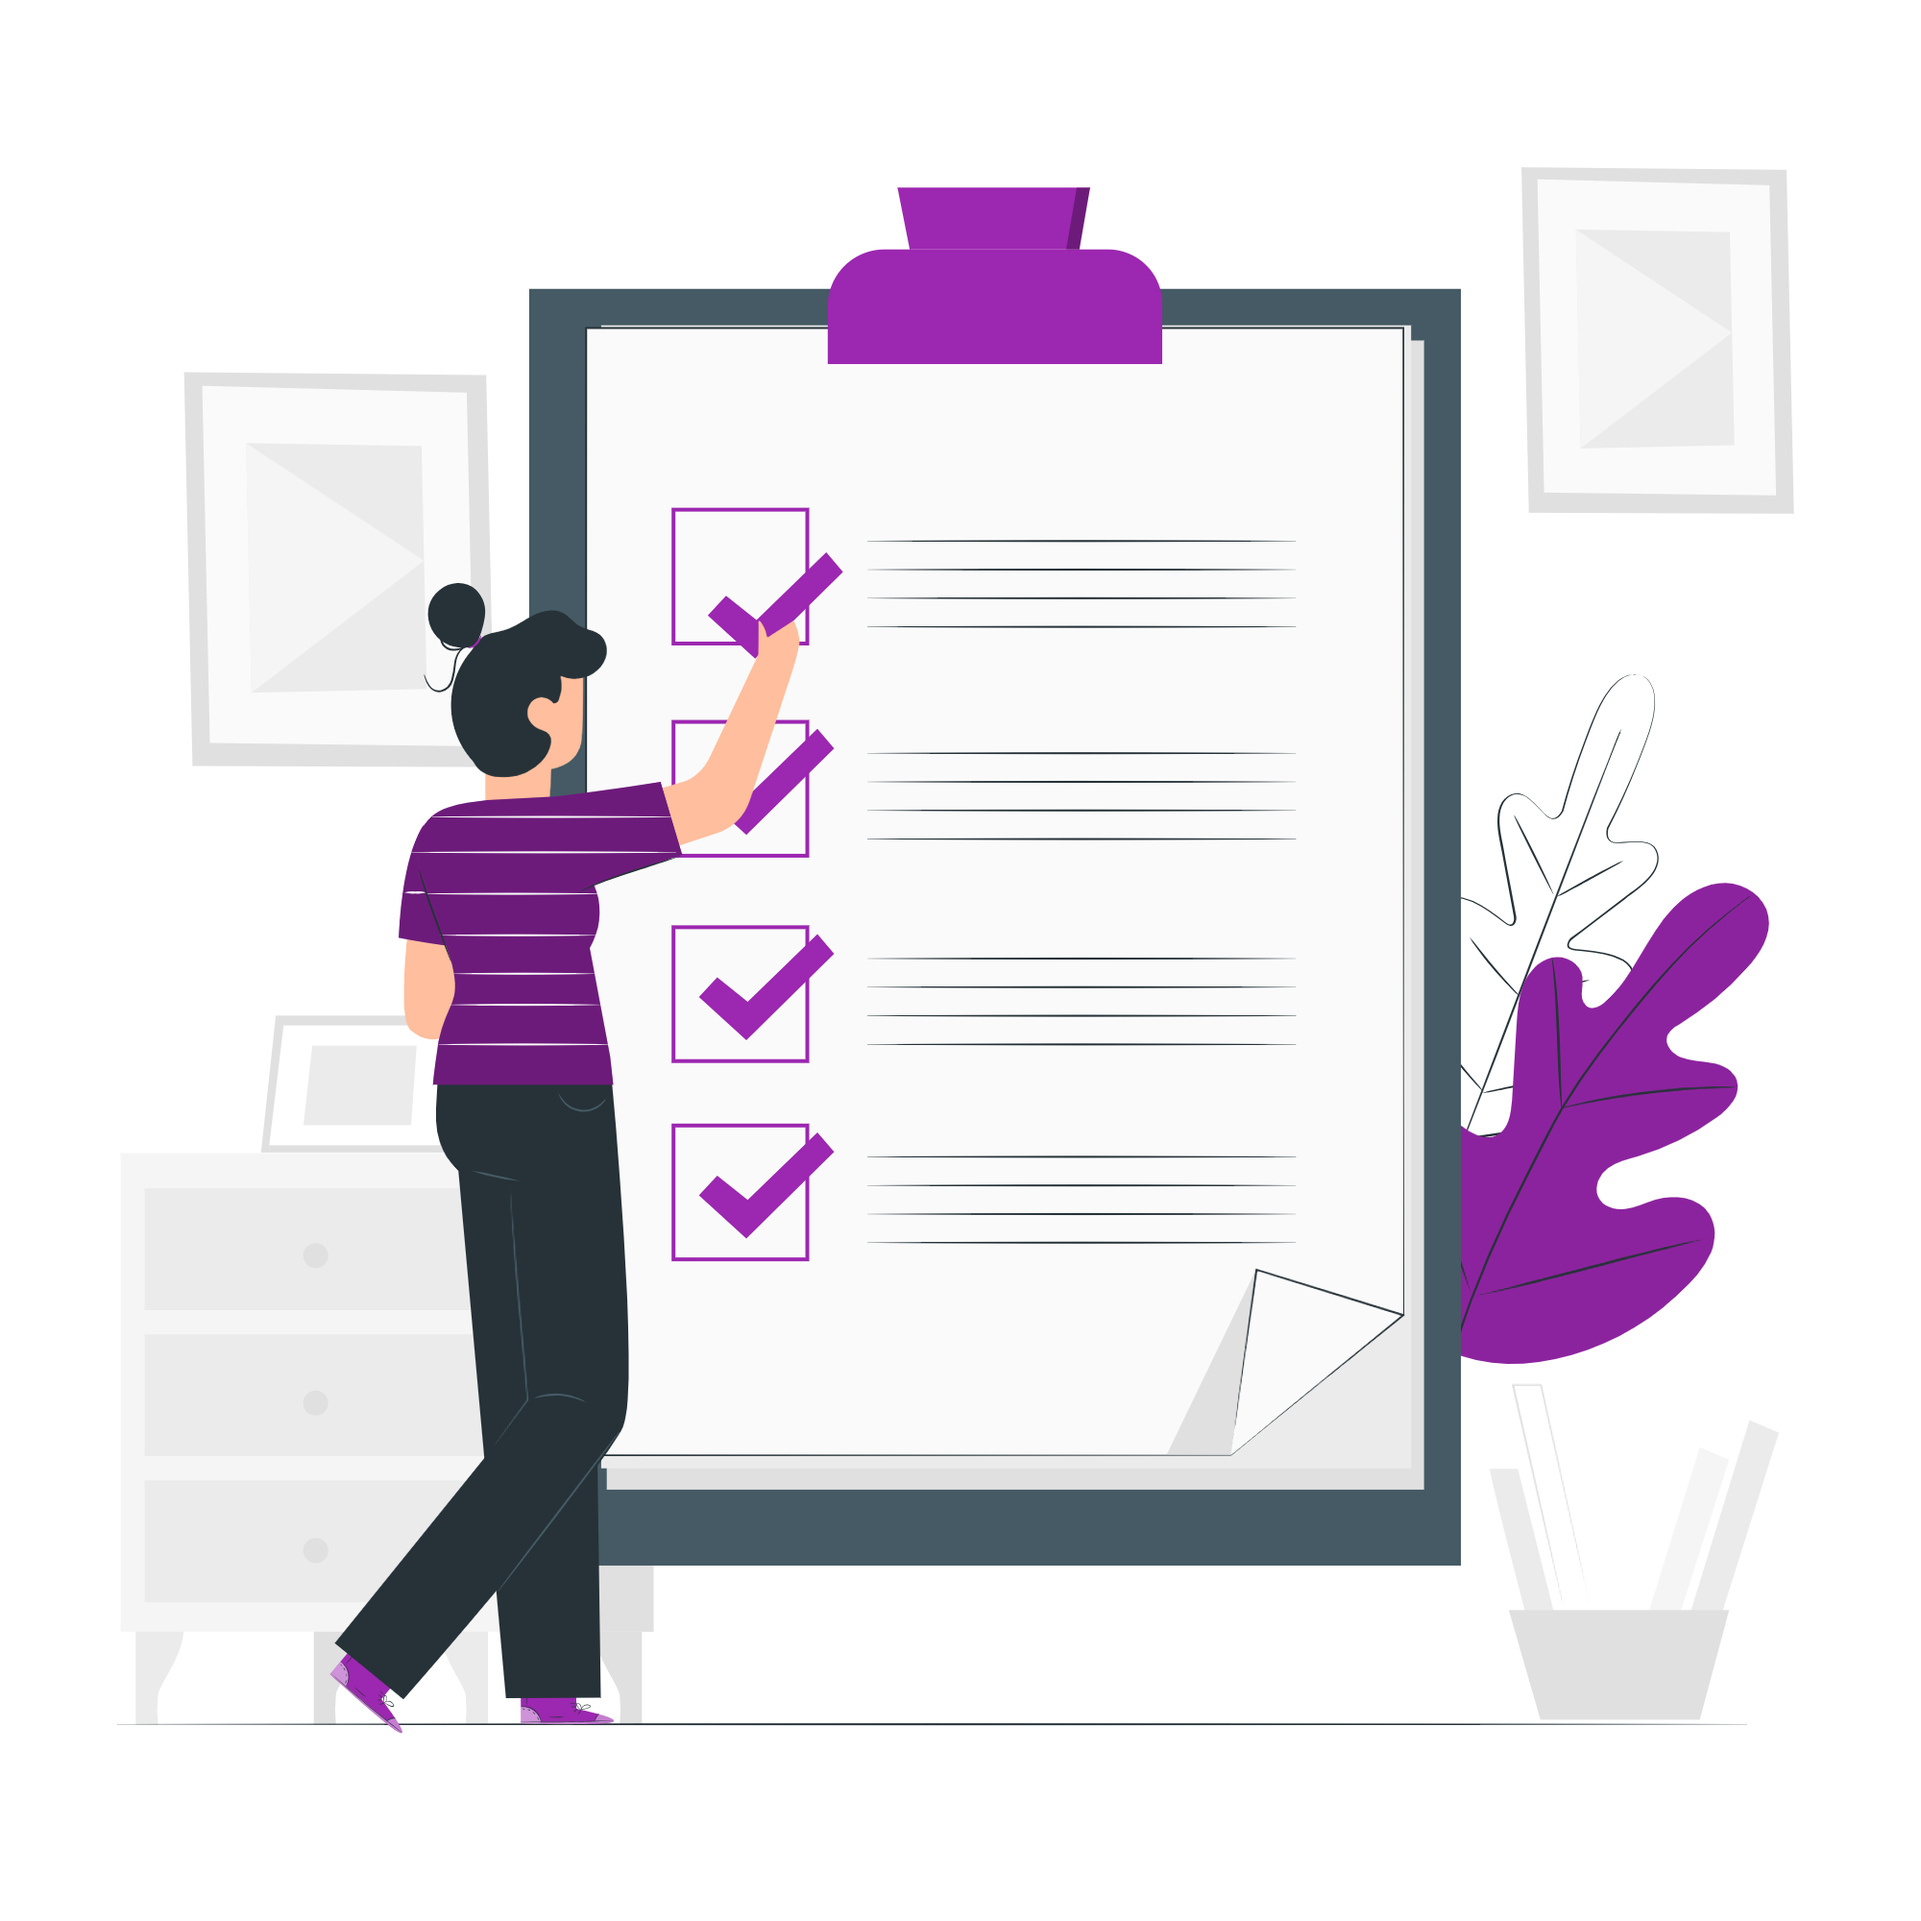
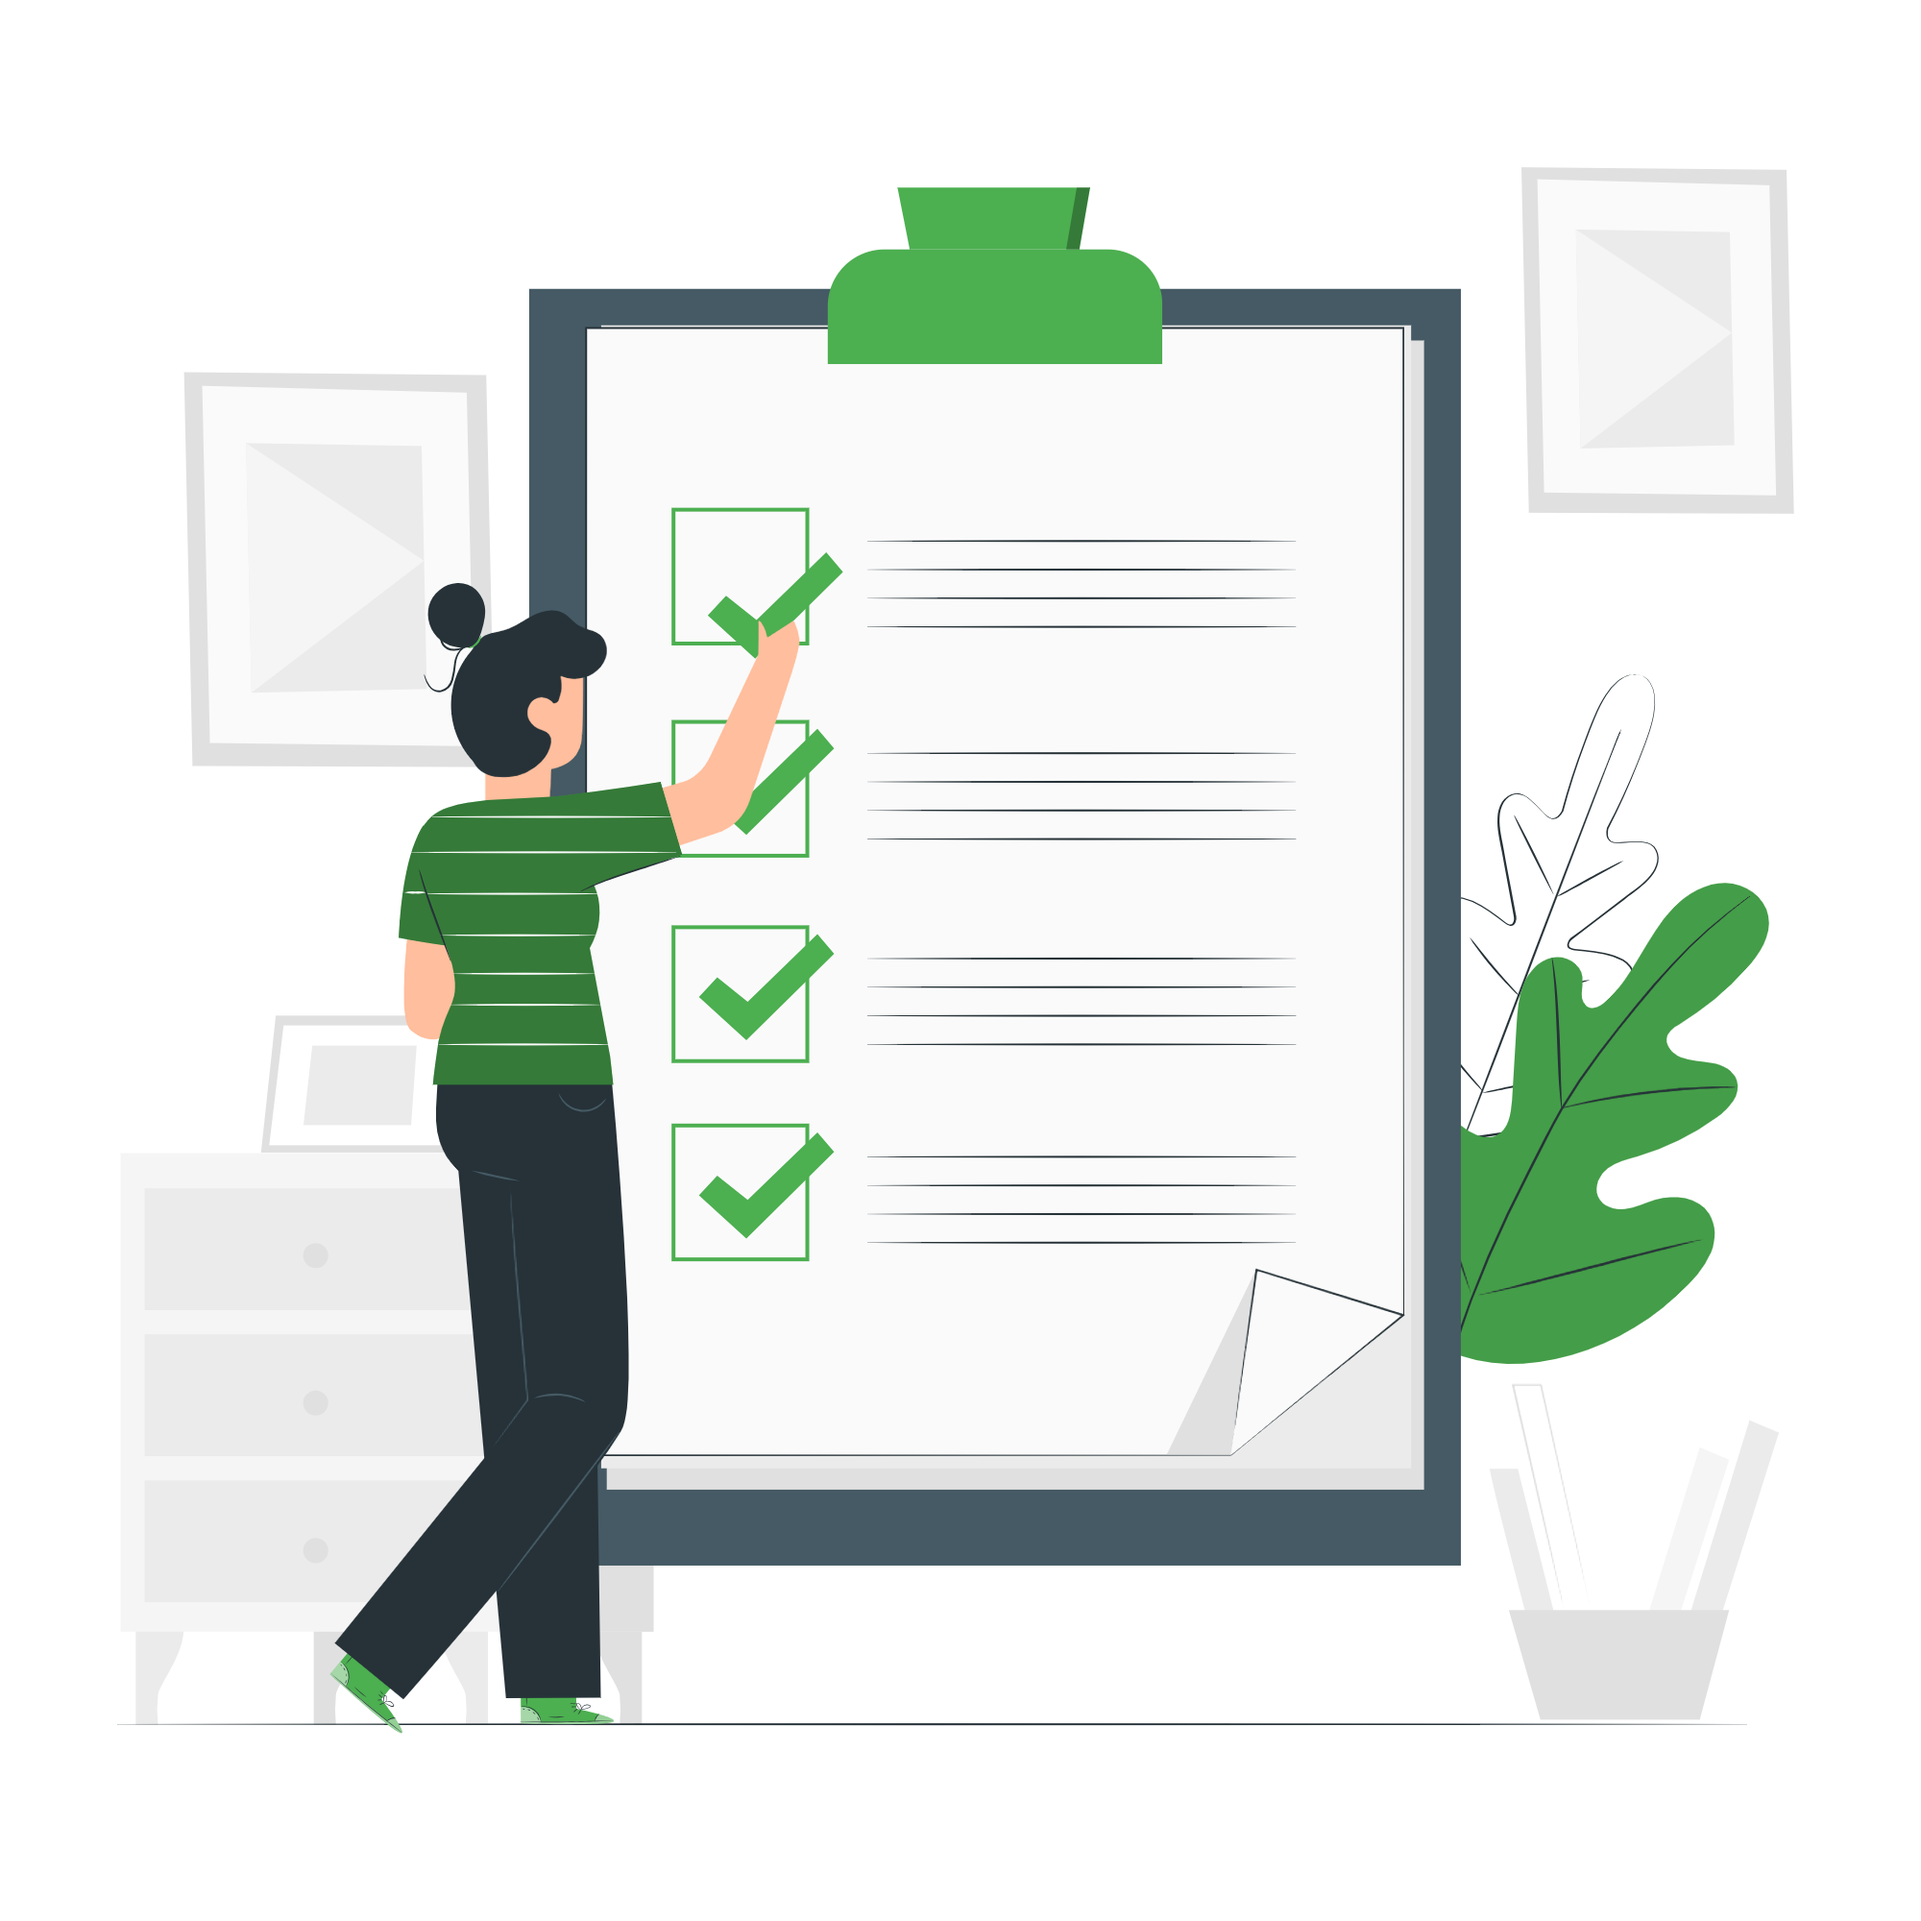
[update] onboard design

diff --git a/app/onboarding/highlight.tsx b/app/onboarding/highlight.tsx
@@ -15,12 +15,12 @@ interface IProps {
 
 const OnboardHighlightScreen: React.FC<IProps> = ({ color, next }) => {
   return (
-    <SafeAreaView className=" bg-primary h-full flex justify-center items-center  px-10">
+    <SafeAreaView className="bg-secondary h-full flex justify-center items-center  px-10">
       <View className="my-4">
-        <Text className="text-white text-3xl text-center font-bold my-2">
+        <Text className="text-dark text-3xl text-center font-bold my-2">
           Find the Perfect Lecture Hall
         </Text>
-        <Text className="text-white ">
+        <Text className="text-dark ">
           Quickly search and filter available lecture halls by size, location,
           or facilities. Stay on top of availability in real-time.
         </Text>
@@ -33,15 +33,15 @@ const OnboardHighlightScreen: React.FC<IProps> = ({ color, next }) => {
         />
       </View>
       <View className="flex gap-4 flex-row">
-        <FontAwesome6 name="dot-circle" color={"white"} />
-        <FontAwesome6 name="dot-circle" color={color ? "#9C27B0" : "white"} />
-        <FontAwesome6 name="dot-circle" color="white" />
-        <FontAwesome6 name="dot-circle" color="white" />
-        <FontAwesome6 name="dot-circle" color="white" />
+        <FontAwesome6 name="dot-circle" color={"gray"} />
+        <FontAwesome6 name="dot-circle" color={color ? "#4CAF50" : "gray"} />
+        <FontAwesome6 name="dot-circle" color="gray" />
+        <FontAwesome6 name="dot-circle" color="gray" />
+        <FontAwesome6 name="dot-circle" color="gray" />
       </View>
       <TouchableOpacity
         onPress={next}
-        className="bg-accent rounded-full p-4 mt-12 w-full"
+        className="bg-primary rounded-full p-4 mt-12 w-full"
       >
         <Text className="text-center text-white">Next</Text>
       </TouchableOpacity>

diff --git a/app/onboarding/manage.tsx b/app/onboarding/manage.tsx
@@ -15,12 +15,12 @@ interface IProps {
 
 const OnboardManageScreen: React.FC<IProps> = ({ color, next }) => {
   return (
-    <SafeAreaView className=" bg-primary h-full flex justify-center items-center  px-10">
+    <SafeAreaView className=" bg-secondary h-full flex justify-center items-center  px-10">
       <View className="my-4">
-        <Text className="text-white text-3xl text-center font-bold my-2">
+        <Text className="text-dark text-3xl text-center font-bold my-2">
           Manage and Modify Bookings
         </Text>
-        <Text className="text-white ">
+        <Text className="text-dark ">
           View upcoming bookings, modify reservations, or cancel anytime—all
           from one convenient dashboard.
         </Text>
@@ -33,15 +33,15 @@ const OnboardManageScreen: React.FC<IProps> = ({ color, next }) => {
         />
       </View>
       <View className="flex gap-4 flex-row">
-        <FontAwesome6 name="dot-circle" color={"white"} />
-        <FontAwesome6 name="dot-circle" color={"white"} />
-        <FontAwesome6 name="dot-circle" color={"white"} />
-        <FontAwesome6 name="dot-circle" color={color ? "#9C27B0" : "white"} />
-        <FontAwesome6 name="dot-circle" color="white" />
+        <FontAwesome6 name="dot-circle" color={"gray"} />
+        <FontAwesome6 name="dot-circle" color={"gray"} />
+        <FontAwesome6 name="dot-circle" color={"gray"} />
+        <FontAwesome6 name="dot-circle" color={color ? "#4CAF50" : "gray"} />
+        <FontAwesome6 name="dot-circle" color="gray" />
       </View>
       <TouchableOpacity
         onPress={next}
-        className="bg-accent rounded-full p-4 mt-12 w-full"
+        className="bg-primary rounded-full p-4 mt-12 w-full"
       >
         <Text className="text-center text-white">Next</Text>
       </TouchableOpacity>

diff --git a/app/onboarding/book.tsx b/app/onboarding/book.tsx
@@ -15,12 +15,12 @@ interface IProps {
 
 const OnboardBookScreen: React.FC<IProps> = ({ color, next }) => {
   return (
-    <SafeAreaView className=" bg-primary h-full flex justify-center items-center  px-10">
+    <SafeAreaView className=" bg-secondary h-full flex justify-center items-center  px-10">
       <View className="my-4">
-        <Text className="text-white text-3xl text-center font-bold my-2">
+        <Text className="text-dark text-3xl text-center font-bold my-2">
           Never Miss a Booking
         </Text>
-        <Text className="text-white ">
+        <Text className="text-dark ">
           Receive notifications when a hall becomes available, when your booking
           starts, and when your time is almost up
         </Text>
@@ -33,15 +33,15 @@ const OnboardBookScreen: React.FC<IProps> = ({ color, next }) => {
         />
       </View>
       <View className="flex gap-4 flex-row">
-        <FontAwesome6 name="dot-circle" color={"white"} />
-        <FontAwesome6 name="dot-circle" color={"white"} />
-        <FontAwesome6 name="dot-circle" color={color ? "#9C27B0" : "white"} />
-        <FontAwesome6 name="dot-circle" color="white" />
-        <FontAwesome6 name="dot-circle" color="white" />
+        <FontAwesome6 name="dot-circle" color={"gray"} />
+        <FontAwesome6 name="dot-circle" color={"gray"} />
+        <FontAwesome6 name="dot-circle" color={color ? "#4CAF50" : "gray"} />
+        <FontAwesome6 name="dot-circle" color="gray" />
+        <FontAwesome6 name="dot-circle" color="gray" />
       </View>
       <TouchableOpacity
         onPress={next}
-        className="bg-accent rounded-full p-4 mt-12 w-full"
+        className="bg-primary rounded-full p-4 mt-12 w-full"
       >
         <Text className="text-center text-white">Next</Text>
       </TouchableOpacity>

diff --git a/app/onboarding/final.tsx b/app/onboarding/final.tsx
@@ -17,10 +17,10 @@ const OnboardFinalScreen: React.FC<IProps> = ({ color, next }) => {
   return (
     <SafeAreaView className=" bg-secondary h-full flex justify-center items-center  px-10">
       <View className="my-4">
-        <Text className="text-white text-3xl text-center font-bold my-2">
+        <Text className="text-dark text-3xl text-center font-bold my-2">
           You're all set!
         </Text>
-        <Text className="text-white ">
+        <Text className="text-dark">
           Start booking lecture halls now and take control of your study or
           meeting space. Happy booking!
         </Text>
@@ -33,15 +33,15 @@ const OnboardFinalScreen: React.FC<IProps> = ({ color, next }) => {
         />
       </View>
       <View className="flex gap-4 flex-row">
-        <FontAwesome6 name="dot-circle" color={"white"} />
-        <FontAwesome6 name="dot-circle" color={"white"} />
-        <FontAwesome6 name="dot-circle" color={"white"} />
-        <FontAwesome6 name="dot-circle" color={"white"} />
-        <FontAwesome6 name="dot-circle" color={color ? "#9C27B0" : "white"} />
+        <FontAwesome6 name="dot-circle" color={"gray"} />
+        <FontAwesome6 name="dot-circle" color={"gray"} />
+        <FontAwesome6 name="dot-circle" color={"gray"} />
+        <FontAwesome6 name="dot-circle" color={"gray"} />
+        <FontAwesome6 name="dot-circle" color={color ? "#4CAF50" : "gray"} />
       </View>
       <TouchableOpacity
         onPress={next}
-        className="bg-accent rounded-full p-4 mt-12 w-full"
+        className="bg-primary rounded-full p-4 mt-12 w-full"
       >
         <Text className="text-center text-white">Start Booking</Text>
       </TouchableOpacity>

diff --git a/app/onboarding/welcome.tsx b/app/onboarding/welcome.tsx
@@ -33,11 +33,11 @@ const WelcomeScreen: React.FC<IProps> = ({ color, next }) => {
         />
       </View>
       <View className="flex gap-4 flex-row">
-        <FontAwesome6 name="dot-circle" color={color ? "#9C27B0" : "white"} />
-        <FontAwesome6 name="dot-circle" color="white" />
-        <FontAwesome6 name="dot-circle" color="white" />
-        <FontAwesome6 name="dot-circle" color="white" />
-        <FontAwesome6 name="dot-circle" color="white" />
+        <FontAwesome6 name="dot-circle" color={color ? "#4CAF50" : "gray"} />
+        <FontAwesome6 name="dot-circle" color="gray" />
+        <FontAwesome6 name="dot-circle" color="gray" />
+        <FontAwesome6 name="dot-circle" color="gray" />
+        <FontAwesome6 name="dot-circle" color="gray" />
       </View>
       <TouchableOpacity
         className="bg-primary rounded-full p-4 mt-12 w-full"
